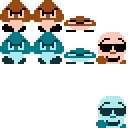
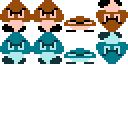
[IMP] estado transitorios de muerte + render y update condicionales + muerte por caída

Changed region(s): [[0.75, 0.0, 1.0, 0.5], [0.75, 0.75, 1.0, 1.0]]

diff --git a/2D/Scene.cpp b/2D/Scene.cpp
@@ -79,16 +79,35 @@ void Scene::init(ShaderProgram &shaderProgram, Camera &camera, HUD &hud, std::st
 
 void Scene::update(float deltaTime, Player *player)
 {
-	currentTime += deltaTime;
-	player->update(deltaTime);
-    for (unsigned i = 0; i < goombas.size(); ++i) goombas[i].update(deltaTime);
-    for (unsigned i = 0; i < koopas.size(); ++i) koopas[i].update(deltaTime);
+    currentTime += deltaTime;
+    player->update(deltaTime);
+    // Call enemies update conditionally
+    for (unsigned i = 0; i < goombas.size(); ++i)
+        if (!goombas[i].isDead())
+            goombas[i].update(deltaTime);
+    for (unsigned i = 0; i < koopas.size(); ++i)
+        if (!koopas[i].isDead())
+            koopas[i].update(deltaTime);
+
+    // Check if Enemies have fallen
+    for (unsigned i = 0; i < goombas.size(); ++i) {
+        if (!goombas[i].isDead())
+            if (goombas[i].getPosition().y > (map->getMapSize().y - 2) * map->getTileSize()) {
+                goombas[i].dieFall();
+            }
+    }
+    for (unsigned i = 0; i < koopas.size(); ++i) {
+        if (!koopas[i].isDead())
+            if (koopas[i].getPosition().y > (map->getMapSize().y - 2) * map->getTileSize()) {
+                koopas[i].dieFall();
+            }
+    }
 
     // Check collisions
     // Goombas - Goombas
     for (unsigned i = 0; i < goombas.size(); ++i)
         for (unsigned j = 0; j < i; ++j)
-            if (!goombas[i].isDead() && !goombas[j].isDead() && goombas[i].collidesWith(goombas[j])) {
+            if (goombas[i].shouldCollide() && goombas[j].shouldCollide() && goombas[i].collidesWith(goombas[j])) {
                 goombas[i].invertDirection();
                 goombas[j].invertDirection();
             }
@@ -96,9 +115,9 @@ void Scene::update(float deltaTime, Player *player)
     // Goombas - Koopas
     for (unsigned i = 0; i < goombas.size(); ++i)
         for (unsigned j = 0; j < koopas.size(); ++j)
-            if (!goombas[i].isDead() && !koopas[j].isDead() && goombas[i].collidesWith(koopas[j])) {
+            if (goombas[i].shouldCollide() && koopas[j].shouldCollide() && goombas[i].collidesWith(koopas[j])) {
                 if (koopas[j].isMovingShell()) {
-                    goombas[i].die();
+                    goombas[i].dieLateral();
                 } else {
                     goombas[i].invertDirection();
                     koopas[j].invertDirection();
@@ -108,12 +127,12 @@ void Scene::update(float deltaTime, Player *player)
     // Koopas Koopas
     for (unsigned i = 0; i < koopas.size(); ++i)
         for (unsigned j = 0; j < i; ++j)
-            if (!koopas[i].isDead() && !koopas[j].isDead() && koopas[i].collidesWith(koopas[j])) {
+            if (koopas[i].shouldCollide() && koopas[j].shouldCollide() && koopas[i].collidesWith(koopas[j])) {
                 if (koopas[i].isMovingShell() ^ koopas[j].isMovingShell()) {
                     if (koopas[i].isMovingShell()) {
-                        koopas[j].die();
+                        koopas[j].dieLateral();
                     } else {
-                        koopas[i].die();
+                        koopas[i].dieLateral();
                     }
                 } else {
                     koopas[i].invertDirection();
@@ -161,8 +180,12 @@ void Scene::render() {
 	if (map != NULL) map->render();
     if (foreground != NULL) foreground->render();
 
-    for (unsigned i = 0; i < goombas.size(); ++i) goombas[i].render();
-    for (unsigned i = 0; i < koopas.size(); ++i) koopas[i].render();
+    for (unsigned i = 0; i < goombas.size(); ++i) 
+        if (!goombas[i].isDead())
+                goombas[i].render();
+    for (unsigned i = 0; i < koopas.size(); ++i)
+        if (!koopas[i].isDead())
+                koopas[i].render();
 
     if (worldNumber > 0) hud->setWorldNumber(worldNumber);
     hud->render();

diff --git a/2D/Koopa.cpp b/2D/Koopa.cpp
@@ -39,7 +39,7 @@ void Koopa::init(const glm::ivec2 &tileMapPos, ShaderProgram &shaderProgram, Til
     enum_t walkL = getAnimId(State::WALK, Dir::LEFT);
     enum_t walkR = getAnimId(State::WALK, Dir::RIGHT);
     enum_t shellId = getAnimId(State::SHELL);
-    enum_t deadId = getAnimId(State::DEAD);
+    enum_t invertedId = getAnimId(State::INVERTED);
 
     // WALKL
     sprite->setAnimationSpeed(walkL, ANIM_SPEED);
@@ -55,9 +55,9 @@ void Koopa::init(const glm::ivec2 &tileMapPos, ShaderProgram &shaderProgram, Til
     sprite->setAnimationSpeed(shellId, ANIM_SPEED);
     sprite->addKeyframe(shellId, glm::vec2(4.f, row));
 
-    // DEAD
-    sprite->setAnimationSpeed(deadId, ANIM_SPEED);
-    sprite->addKeyframe(deadId, glm::vec2(5.f, row));
+    // INVERTED
+    sprite->setAnimationSpeed(invertedId, ANIM_SPEED);
+    sprite->addKeyframe(invertedId, glm::vec2(5.f, row));
 
     // Set default animation
     currentState = State::WALK;
@@ -66,37 +66,40 @@ void Koopa::init(const glm::ivec2 &tileMapPos, ShaderProgram &shaderProgram, Til
     else
         sprite->changeAnimation(walkR);
 
-
     setPosition(pos * map->getTileSize());
 }
 
+
+void Koopa::dieVertical() {
+    if (isShell())
+        return; // Un koopa o puede morir verticalmente si esta en estado shell
+    else if (currentState == State::WALK)
+        becomeShell();
+
+    Enemy::dieVertical();
+}
+
 void Koopa::update(float deltaTime) {
-    updateAnimation();
-    if (currentState == State::DEAD) {
-        return;
-    }
     sprite->update(deltaTime);
     updateVelocity(deltaTime);
     updatePosition(deltaTime);
+    updateAnimation();
     setPosition(pos);
 }
 
 
 void Koopa::updateVelocity(float deltaTime) {
-    if (map->onGround(pos, enemySize))
-        vel.y = 0.f;
-    else {
-        vel.y += GRAVITY_ACC * deltaTime;
-        if (vel.y > FALLING_TERMINAL_VEL)
-            vel.y = FALLING_TERMINAL_VEL;
-    }
+    vel.y += GRAVITY_ACC * deltaTime;
+    if (vel.y > FALLING_TERMINAL_VEL)
+        vel.y = FALLING_TERMINAL_VEL;
 
     if (currentState == State::SHELL)
         vel.x = SHELL_SPEED * (int)dir;
     else if (currentState == State::WALK)
         vel.x = KOOPA_SPEED * (int)dir;
-    else
+    else if (currentState == State::DEAD)
         vel.x = 0.f;
+    // si inverted, no tocamos vel.x
 }
 
 void Koopa::updatePosition(float deltaTime) {
@@ -105,14 +108,15 @@ void Koopa::updatePosition(float deltaTime) {
 
     glm::ivec2 nextPos = glm::ivec2(xNext, yNext);
 
-    if (map->solveCollisionsY(pos, nextPos, enemySize))
-        vel.y = 0.f;
+    if (!isDying()) {
+        if (map->solveCollisionsY(pos, nextPos, enemySize))
+            vel.y = 0.f;
 
-    if (map->solveCollisionsX(pos, nextPos, enemySize)) {
-        dir = (Dir)(-(enum_t)dir);
-        sprite->changeAnimation(getAnimId(currentState, dir));
+        if (map->solveCollisionsX(pos, nextPos, enemySize)) {
+            dir = (Dir)(-(enum_t)dir);
+            sprite->changeAnimation(getAnimId(currentState, dir));
+        }
     }
-
     this->pos = nextPos;
 }
 
@@ -133,6 +137,7 @@ void Koopa::updateAnimation() {
                 nextAnimId = getAnimId(currentState, Dir::RIGHT);
             break;
         case State::SHELL:
+        case State::INVERTED:
         case State::DEAD:
             nextAnimId = getAnimId(currentState);
             break;

diff --git a/2D/Goomba.cpp b/2D/Goomba.cpp
@@ -32,11 +32,11 @@ void Goomba::init(const glm::ivec2 &tileMapPos, ShaderProgram &shaderProgram, Ti
     else // UNDERWORLD
         row = 1.f;
 
-    // Only 2 animations
-    sprite->setNumberAnimations(2);
+    sprite->setNumberAnimations(3);
 
     enum_t walkId = getAnimId(State::WALK);
-    enum_t deadId = getAnimId(State::DEAD);
+    enum_t crushedId = getAnimId(State::CRUSHED);
+    enum_t flippedId = getAnimId(State::FLIPPED);
 
     // WALK
     sprite->setAnimationSpeed(walkId, ANIM_SPEED);
@@ -44,21 +44,20 @@ void Goomba::init(const glm::ivec2 &tileMapPos, ShaderProgram &shaderProgram, Ti
     sprite->addKeyframe(walkId, glm::vec2(1.f, row));
 
     // DEAD
-    sprite->setAnimationSpeed(deadId, ANIM_SPEED);
-    sprite->addKeyframe(deadId, glm::vec2(2.f, row));
+    sprite->setAnimationSpeed(crushedId, ANIM_SPEED);
+    sprite->addKeyframe(crushedId, glm::vec2(2.f, row));
+
+    // FLIPPED
+    sprite->setAnimationSpeed(flippedId, ANIM_SPEED);
+    sprite->addKeyframe(flippedId, glm::vec2(3.f, row));
 
     // Set default animation
     sprite->changeAnimation(walkId);
-
 
     setPosition(pos * map->getTileSize());
 }
 
 void Goomba::update(float deltaTime) {
-    if (currentState == State::DEAD) {
-        sprite->changeAnimation(getAnimId(currentState));
-        return;
-    }
     sprite->update(deltaTime);
     updateAnimation();
     updateVelocity(deltaTime);
@@ -68,17 +67,13 @@ void Goomba::update(float deltaTime) {
 
 
 void Goomba::updateVelocity(float deltaTime) {
-    if (map->onGround(pos, enemySize))
-        vel.y = 0.f;
-    else {
-        vel.y += GRAVITY_ACC * deltaTime;
-        if (vel.y > FALLING_TERMINAL_VEL)
-            vel.y = FALLING_TERMINAL_VEL;
-    }
+    vel.y += GRAVITY_ACC * deltaTime;
+    if (vel.y > FALLING_TERMINAL_VEL)
+        vel.y = FALLING_TERMINAL_VEL;
 
     if (currentState == State::WALK)
         vel.x = GOOMBA_SPEED * (int)dir;
-    else if (currentState == State::DEAD)
+    else if (currentState == State::CRUSHED)
         vel.x = 0.f;
 }
 
@@ -88,21 +83,21 @@ void Goomba::updatePosition(float deltaTime) {
 
     glm::ivec2 nextPos = glm::ivec2(xNext, yNext);
 
-    if (map->solveCollisionsY(pos, nextPos, enemySize))
-        vel.y = 0.f;
+    if (!isDying()) { 
+        if (map->solveCollisionsY(pos, nextPos, enemySize))
+            vel.y = 0.f;
 
-    if (map->solveCollisionsX(pos, nextPos, enemySize))
-        dir = (Dir)(-(enum_t)dir);
-
+        if (map->solveCollisionsX(pos, nextPos, enemySize))
+            dir = (Dir)(-(enum_t)dir);
+    }
     this->pos = nextPos;
+
+
 }
 
 void Goomba::updateAnimation() {
     State prevState = (State)sprite->animation();
     if (currentState != prevState) {
-        if (currentState == State::WALK)
-            sprite->changeAnimation(getAnimId(currentState));
-        else if (currentState == State::DEAD)
-            sprite->changeAnimation(getAnimId(currentState));
+        sprite->changeAnimation(getAnimId(currentState));
     }
 }

diff --git a/2D/Goomba.h b/2D/Goomba.h
@@ -10,8 +10,12 @@ class Goomba : public Enemy {
         void init(const glm::ivec2 &tileMapPos, ShaderProgram &shaderProgram, TileMap *tileMap, Enemy::Color color, Enemy::Dir initialDirection, const glm::ivec2 &initPos) override;
         void update(float deltaTime) override;
 
-        void die() override { currentState = State::DEAD; dir = Dir::NONE;};
+        void dieLateral() override { currentState = State::FLIPPED; Enemy::dieLateral(); };
+        void dieVertical() override { currentState = State::CRUSHED; dir = Dir::NONE; Enemy::dieVertical(); };
+        void dieFall() override { currentState = State::DEAD; dir = Dir::NONE; Enemy::dieFall(); };
+
         bool isDead() const override { return currentState == State::DEAD; };
+        bool isDying() const override { return currentState == State::FLIPPED || currentState == State::CRUSHED; };
 
     private:
         static Texture *s_goombaTexture;
@@ -20,9 +24,10 @@ class Goomba : public Enemy {
         void updateVelocity(float deltaTime);
         void updateAnimation();
 
+
         // Animations
         typedef int enum_t;
-        enum class State : enum_t { WALK, DEAD };
+        enum class State : enum_t { WALK, CRUSHED, FLIPPED, DEAD };
 
         enum_t getAnimId(State a) const { return (enum_t)a; };
 

diff --git a/2D/Koopa.h b/2D/Koopa.h
@@ -11,9 +11,12 @@ class Koopa : public Enemy {
 
         void becomeShell() { currentState = State::SHELL; vel.x = 0.f; dir = Dir::NONE; };
         void kick(Dir dir);
-        void die() override { currentState = State::DEAD; dir = Dir::NONE;};
+        void dieLateral() override { currentState = State::INVERTED; Enemy::dieLateral(); };
+        void dieVertical() override;
+        void dieFall() override { currentState = State::DEAD; dir = Dir::NONE; Enemy::dieFall(); };
 
         bool isDead() const override { return currentState == State::DEAD; };
+        bool isDying() const override { return currentState == State::INVERTED; };
         bool isShell() const { return currentState == State::SHELL; };
         bool isMovingShell() const { return currentState == State::SHELL && vel.x != 0.f; };
 
@@ -26,7 +29,7 @@ class Koopa : public Enemy {
 
         // Animations
         typedef int enum_t;
-        enum class State : enum_t { WALK, SHELL, DEAD };
+        enum class State : enum_t { WALK, SHELL, INVERTED, DEAD };
         enum_t getAnimId(State a) const { return (enum_t)a + 1; };
         enum_t getAnimId(State a, Dir d) const { if (a == State::WALK) return (d == Dir::LEFT) ? (enum_t)a : (enum_t)a+1; else return getAnimId(a); };
 

diff --git a/2D/Enemy.h b/2D/Enemy.h
@@ -18,10 +18,15 @@ class Enemy {
         glm::ivec2 getSize() const { return enemySize; };
 
         virtual bool isDead() const { return true; };
+        virtual bool isDying() const { return false; };
+        virtual bool shouldCollide() const { return !isDying() && !isDead(); };
         bool collidesWith(const Enemy &other) const;
 
         void invertDirection() { dir = (Dir)(-(enum_t)dir); };
-        virtual void die() {};
+
+        virtual void dieLateral() { vel.y = 240.f; };
+        virtual void dieVertical() { vel.y = 0.f; };
+        virtual void dieFall() { vel.y = 0.f; };
 
 
     protected:
